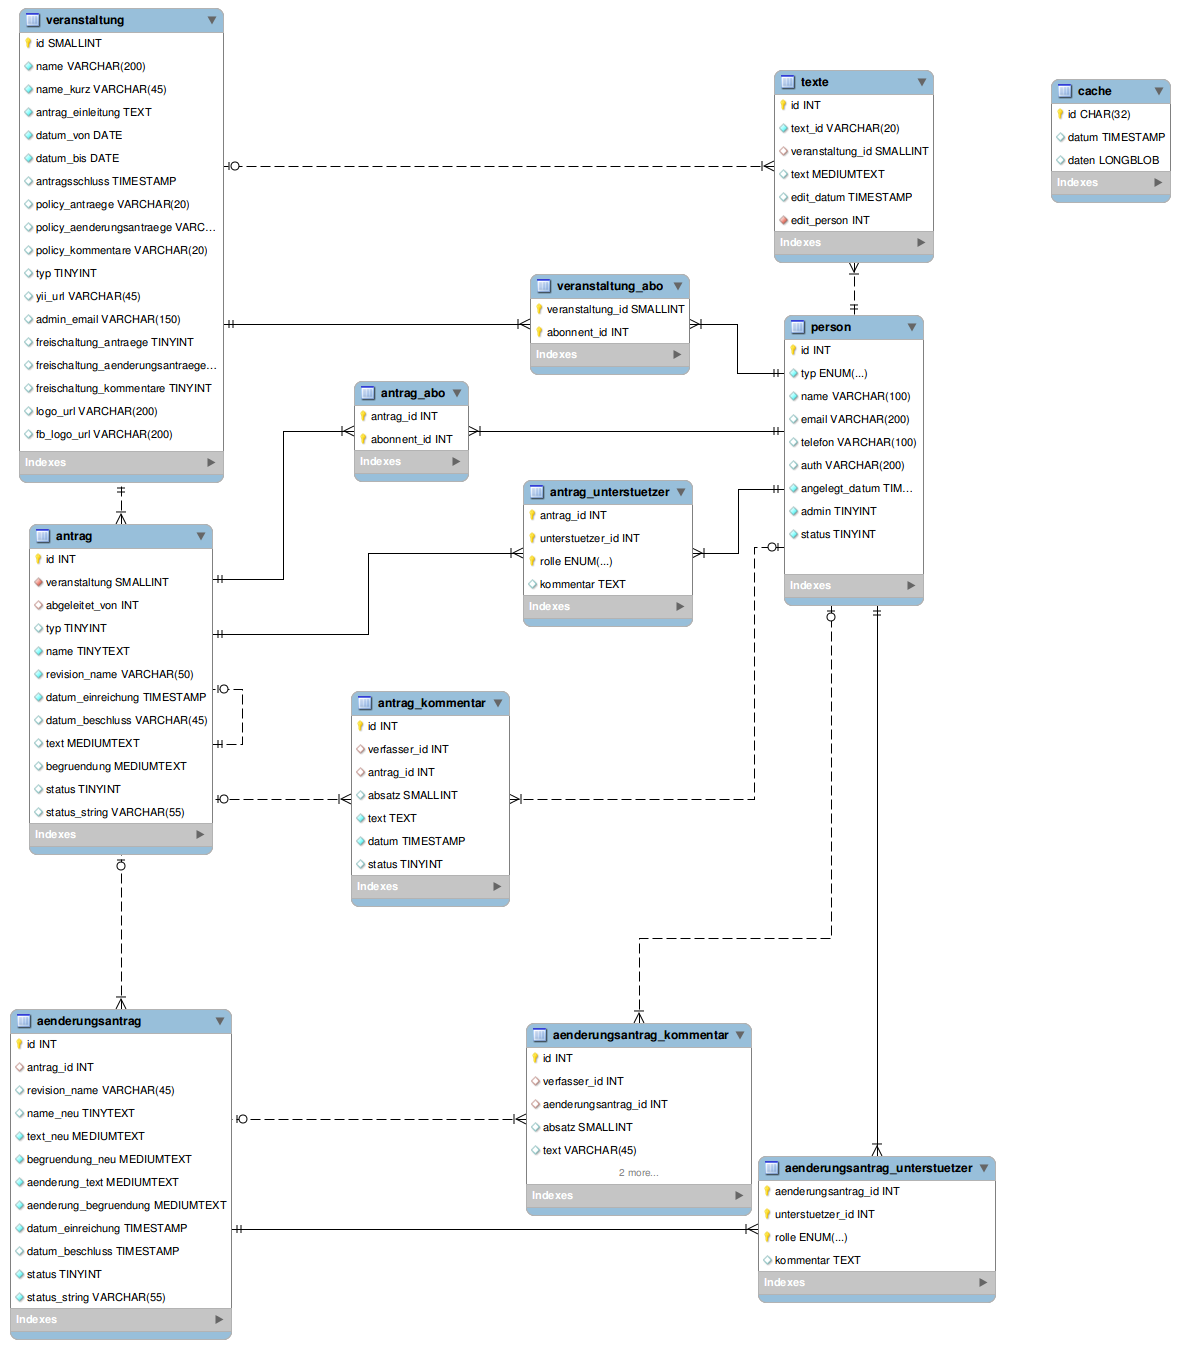
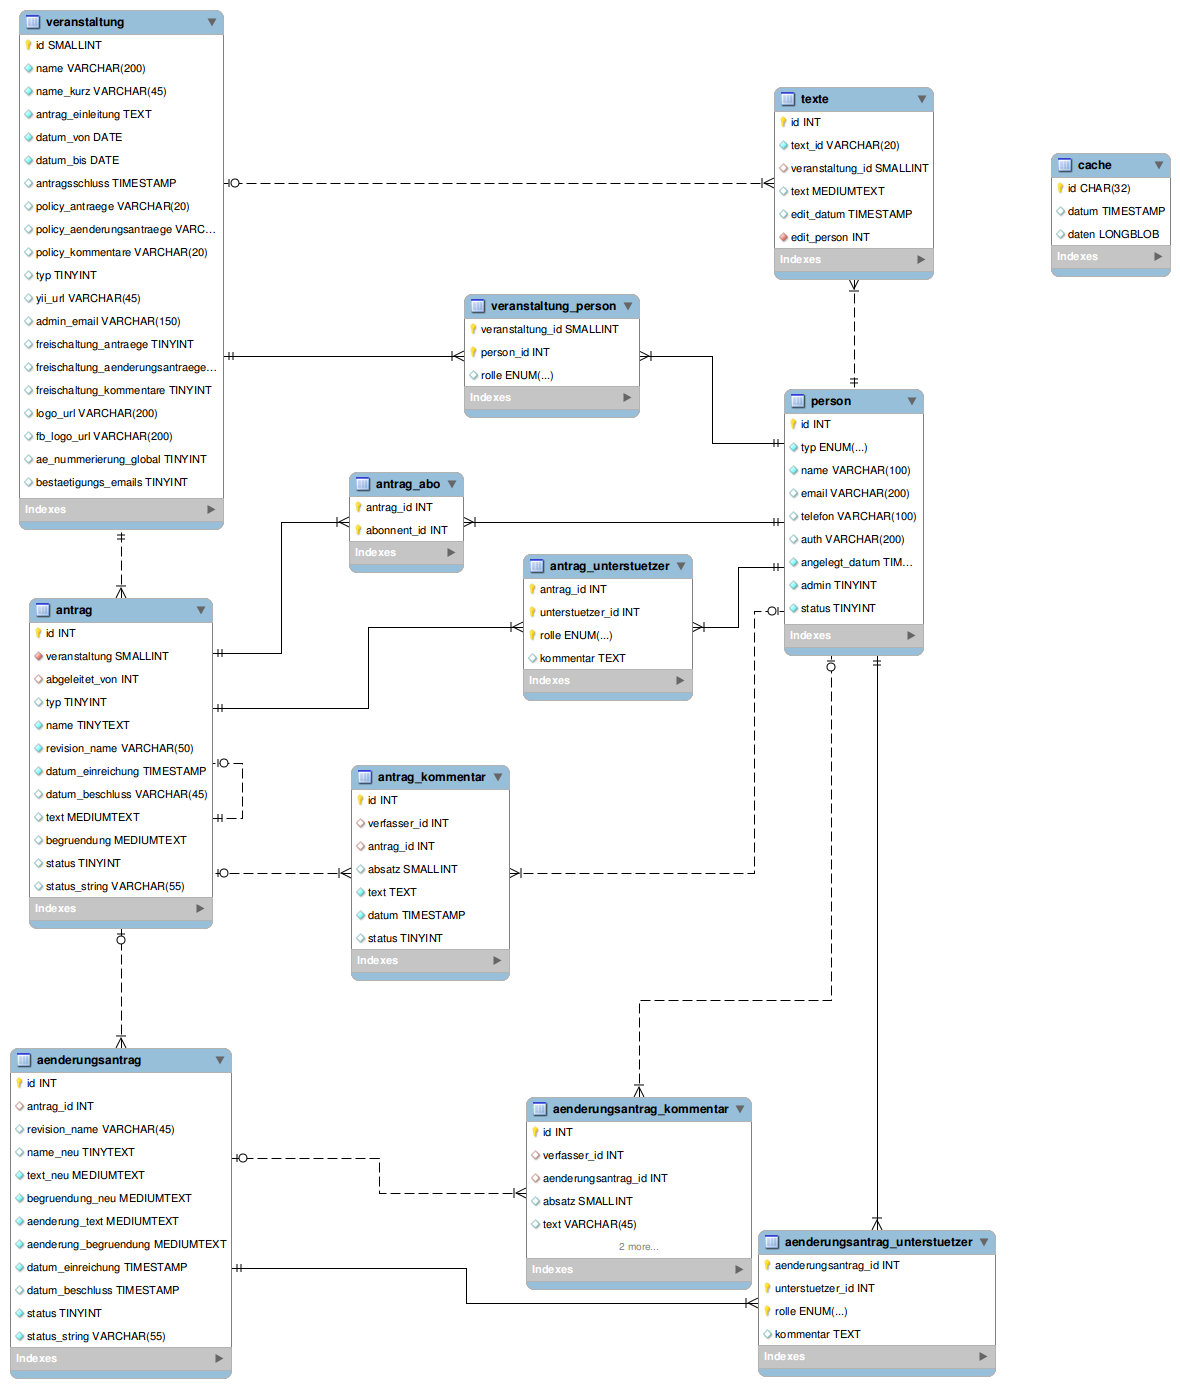
Veranstaltungs-Admins - Grundstruktur

diff --git a/protected/models/VeranstaltungPerson.php b/protected/models/VeranstaltungPerson.php
@@ -1,0 +1,90 @@
+<?php
+
+/**
+ * This is the model base class for the table "antrag_unterstuetzer".
+ * DO NOT MODIFY THIS FILE! It is automatically generated by giix.
+ * If any changes are necessary, you must set or override the required
+ * property or method in class "AntragUnterstuetzer".
+ *
+ * Columns in table "antrag_unterstuetzer" available as properties of the model,
+ * followed by relations of table "antrag_unterstuetzer" available as properties of the model.
+ *
+ * @property integer $veranstaltung_id
+ * @property integer $person_id
+ * @property string $rolle
+ *
+ * @property Veranstaltung $veranstaltung
+ * @property Person $person
+ */
+class VeranstaltungPerson extends GxActiveRecord {
+
+	public static $STATUS_ADMIN = "admin";
+	public static $STATUS_DABEI = "dabei";
+	public static $STATUS_ABO = "abo";
+	public static $STATUS_DELEGIERT = "delegiert";
+	public static $STATUS = array(
+		"delegiert" => "Delegiert",
+		"admin" => "Admin",
+		"abo" => "Abonniert",
+		"dabei" => "Dabei",
+	);
+
+	public static function model($className=__CLASS__) {
+		return parent::model($className);
+	}
+
+	public function tableName() {
+		return 'veranstaltung_person';
+	}
+
+	public static function label($n = 1) {
+		return Yii::t('app', 'VeranstaltungPerson|VeranstaltungPersonen', $n);
+	}
+
+	public static function representingColumn() {
+		return 'rolle';
+	}
+
+	public function rules() {
+		return array(
+			array('veranstaltung_id, person_id, rolle', 'required'),
+			array('veranstaltung_id, person_id', 'numerical', 'integerOnly'=>true),
+			array('rolle', 'length', 'max'=>12),
+			array('veranstaltung_id, person_id, rolle', 'safe', 'on'=>'search'),
+		);
+	}
+
+	public function relations() {
+		return array(
+			'veranstaltung' => array(self::BELONGS_TO, 'Veranstaltung', 'veranstaltung_id'),
+			'person' => array(self::BELONGS_TO, 'Person', 'person_id'),
+		);
+	}
+
+	public function pivotModels() {
+		return array(
+		);
+	}
+
+	public function attributeLabels() {
+		return array(
+			'veranstaltung_id' => null,
+			'person_id' => null,
+			'rolle' => Yii::t('app', 'Rolle'),
+			'veranstaltung' => null,
+			'person' => null,
+		);
+	}
+
+	public function search() {
+		$criteria = new CDbCriteria;
+
+		$criteria->compare('veranstaltung_id', $this->veranstaltung_id);
+		$criteria->compare('person_id', $this->person_id);
+		$criteria->compare('rolle', $this->rolle, true);
+
+		return new CActiveDataProvider($this, array(
+			'criteria' => $criteria,
+		));
+	}
+}

diff --git a/protected/models/_base/BaseVeranstaltung.php b/protected/models/_base/BaseVeranstaltung.php
@@ -21,7 +21,7 @@
  * @property integer $bestaetigungs_emails
  *
  * @property Antrag[] $antraege
- * @property Person[] $abonnenten
+ * @property VeranstaltungPerson[] $veranstaltung_personen
  * @property Texte[] $texte
  */
 abstract class BaseVeranstaltung extends GxActiveRecord
@@ -63,7 +63,7 @@ abstract class BaseVeranstaltung extends GxActiveRecord
 	{
 		return array(
 			'antraege'   => array(self::HAS_MANY, 'Antrag', 'veranstaltung'),
-			'abonnenten' => array(self::MANY_MANY, 'Person', 'veranstaltung_abo(veranstaltung_id, abonnent_id)'),
+			'veranstaltung_personen'   => array(self::HAS_MANY, 'VeranstaltungPerson', 'veranstaltung_id'),
 			'texte'      => array(self::HAS_MANY, 'Texte', 'veranstaltung_id'),
 		);
 	}
@@ -71,7 +71,7 @@ abstract class BaseVeranstaltung extends GxActiveRecord
 	public function pivotModels()
 	{
 		return array(
-			'abonnenten' => 'VeranstaltungAbo',
+			'veranstaltung_personen' => 'VeranstaltungPerson'
 		);
 	}
 
@@ -97,7 +97,7 @@ abstract class BaseVeranstaltung extends GxActiveRecord
 			'logo_url'                         => Yii::t('app', 'Logo-URL'),
 			'fb_logo_url'                      => Yii::t('app', 'Facebook-Bild URL'),
 			'antraege'                         => null,
-			'abonnenten'                       => null,
+			'veranstaltung_personen'           => null,
 			'texte'                            => null,
 			'ae_nummerierung_global'           => Yii::t('app', 'ÄA-Nummerierung für die ganze Veranstaltung'),
 			'bestaetigungs_emails'             => Yii::t('app', 'Bestätigungsmails an AntragsStellerInnen'),

diff --git a/protected/models/_base/BasePerson.php b/protected/models/_base/BasePerson.php
@@ -24,7 +24,7 @@
  * @property Antrag[] $antraege_abos
  * @property AntragKommentar[] $antragKommentare
  * @property AntragUnterstuetzer[] $antragUnterstuetzer
- * @property Veranstaltung[] $veranstaltungen
+ * @property VeranstaltungPerson[] $veranstaltungen
  */
 abstract class BasePerson extends GxActiveRecord {
 
@@ -63,14 +63,14 @@ abstract class BasePerson extends GxActiveRecord {
 			'antraege_abos' => array(self::MANY_MANY, 'Antrag', 'antrag_abo(abonnent_id, antrag_id)'),
 			'antragKommentare' => array(self::HAS_MANY, 'AntragKommentar', 'verfasser_id'),
 			'antragUnterstuetzer' => array(self::HAS_MANY, 'AntragUnterstuetzer', 'unterstuetzer_id'),
-			'veranstaltungen' => array(self::MANY_MANY, 'Veranstaltung', 'veranstaltung_abo(abonnent_id, veranstaltung_id)'),
+			'veranstaltungen'  => array(self::HAS_MANY, 'VeranstaltungPerson', 'person_id'),
 		);
 	}
 
 	public function pivotModels() {
 		return array(
 			'antraege_abos' => 'AntragAbo',
-			'veranstaltungen' => 'VeranstaltungAbo',
+			'veranstaltungen_personen' => 'VeranstaltungPerson',
 		);
 	}
 

diff --git a/protected/models/Veranstaltung.php b/protected/models/Veranstaltung.php
@@ -150,6 +150,19 @@ class Veranstaltung extends BaseVeranstaltung
 	}
 
 	/**
+	 * @param Person $person
+	 * @return bool
+	 */
+	public function isAdmin($person) {
+		$ein = VeranstaltungPerson::model()->findAllByAttributes(array(
+			"veranstaltung_id" => $this->id,
+			"person_id" => $person->id,
+			"rolle" => VeranstaltungPerson::$STATUS_ADMIN
+		));
+		return (count($ein) > 0);
+	}
+
+	/**
 	 * @var string $className
 	 * @return GxActiveRecord
 	 */

diff --git a/protected/views/site/veranstaltung_index.php b/protected/views/site/veranstaltung_index.php
@@ -48,6 +48,7 @@ include(__DIR__ . "/sidebar.php");
 		if ($veranstaltung->antragsschluss != "") echo '<p class="antragsschluss">Antrags&shy;schluss: ' . HtmlBBcodeUtils::formatMysqlDateTime($veranstaltung->antragsschluss) . "</p>\n";
 
 		echo $einleitungstext->getHTMLText();
+
 		?>
     </div>
 </div>

diff --git a/protected/models/Person.php b/protected/models/Person.php
@@ -32,11 +32,12 @@ class Person extends BasePerson
         return Yii::t('app', 'Person|Personen', $n);
     }
 
-
+	/*
     public function attributeLabels() {
         $ret = parent::attributeLabels();
         $ret["abonnenten"] = "Hat abonniert";
         return $ret;
     }
+	*/
 
 }
